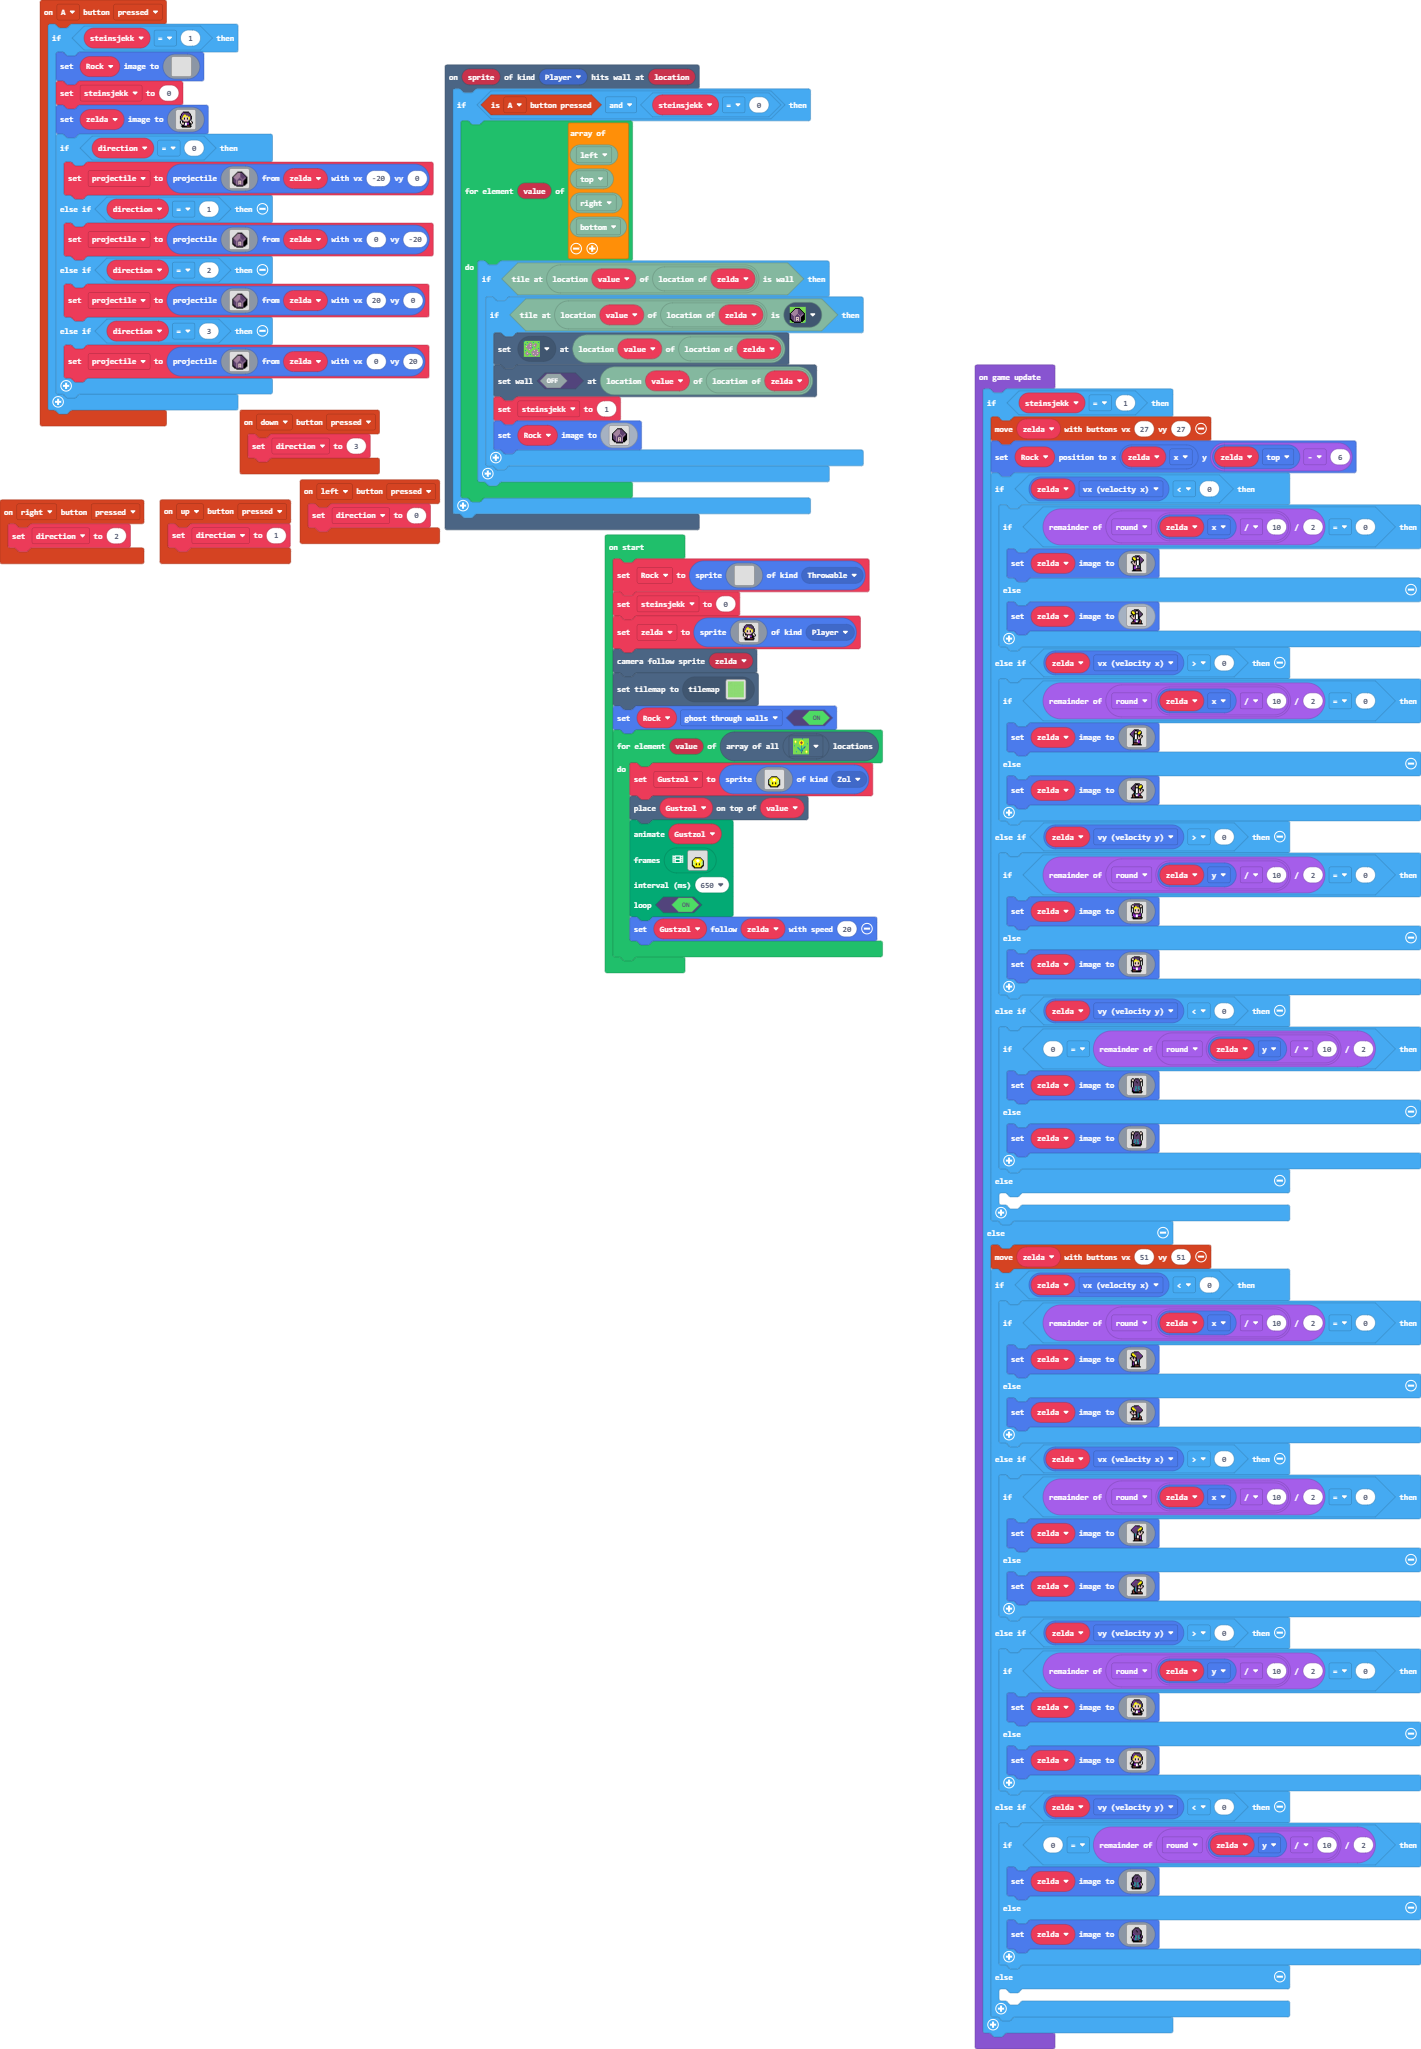
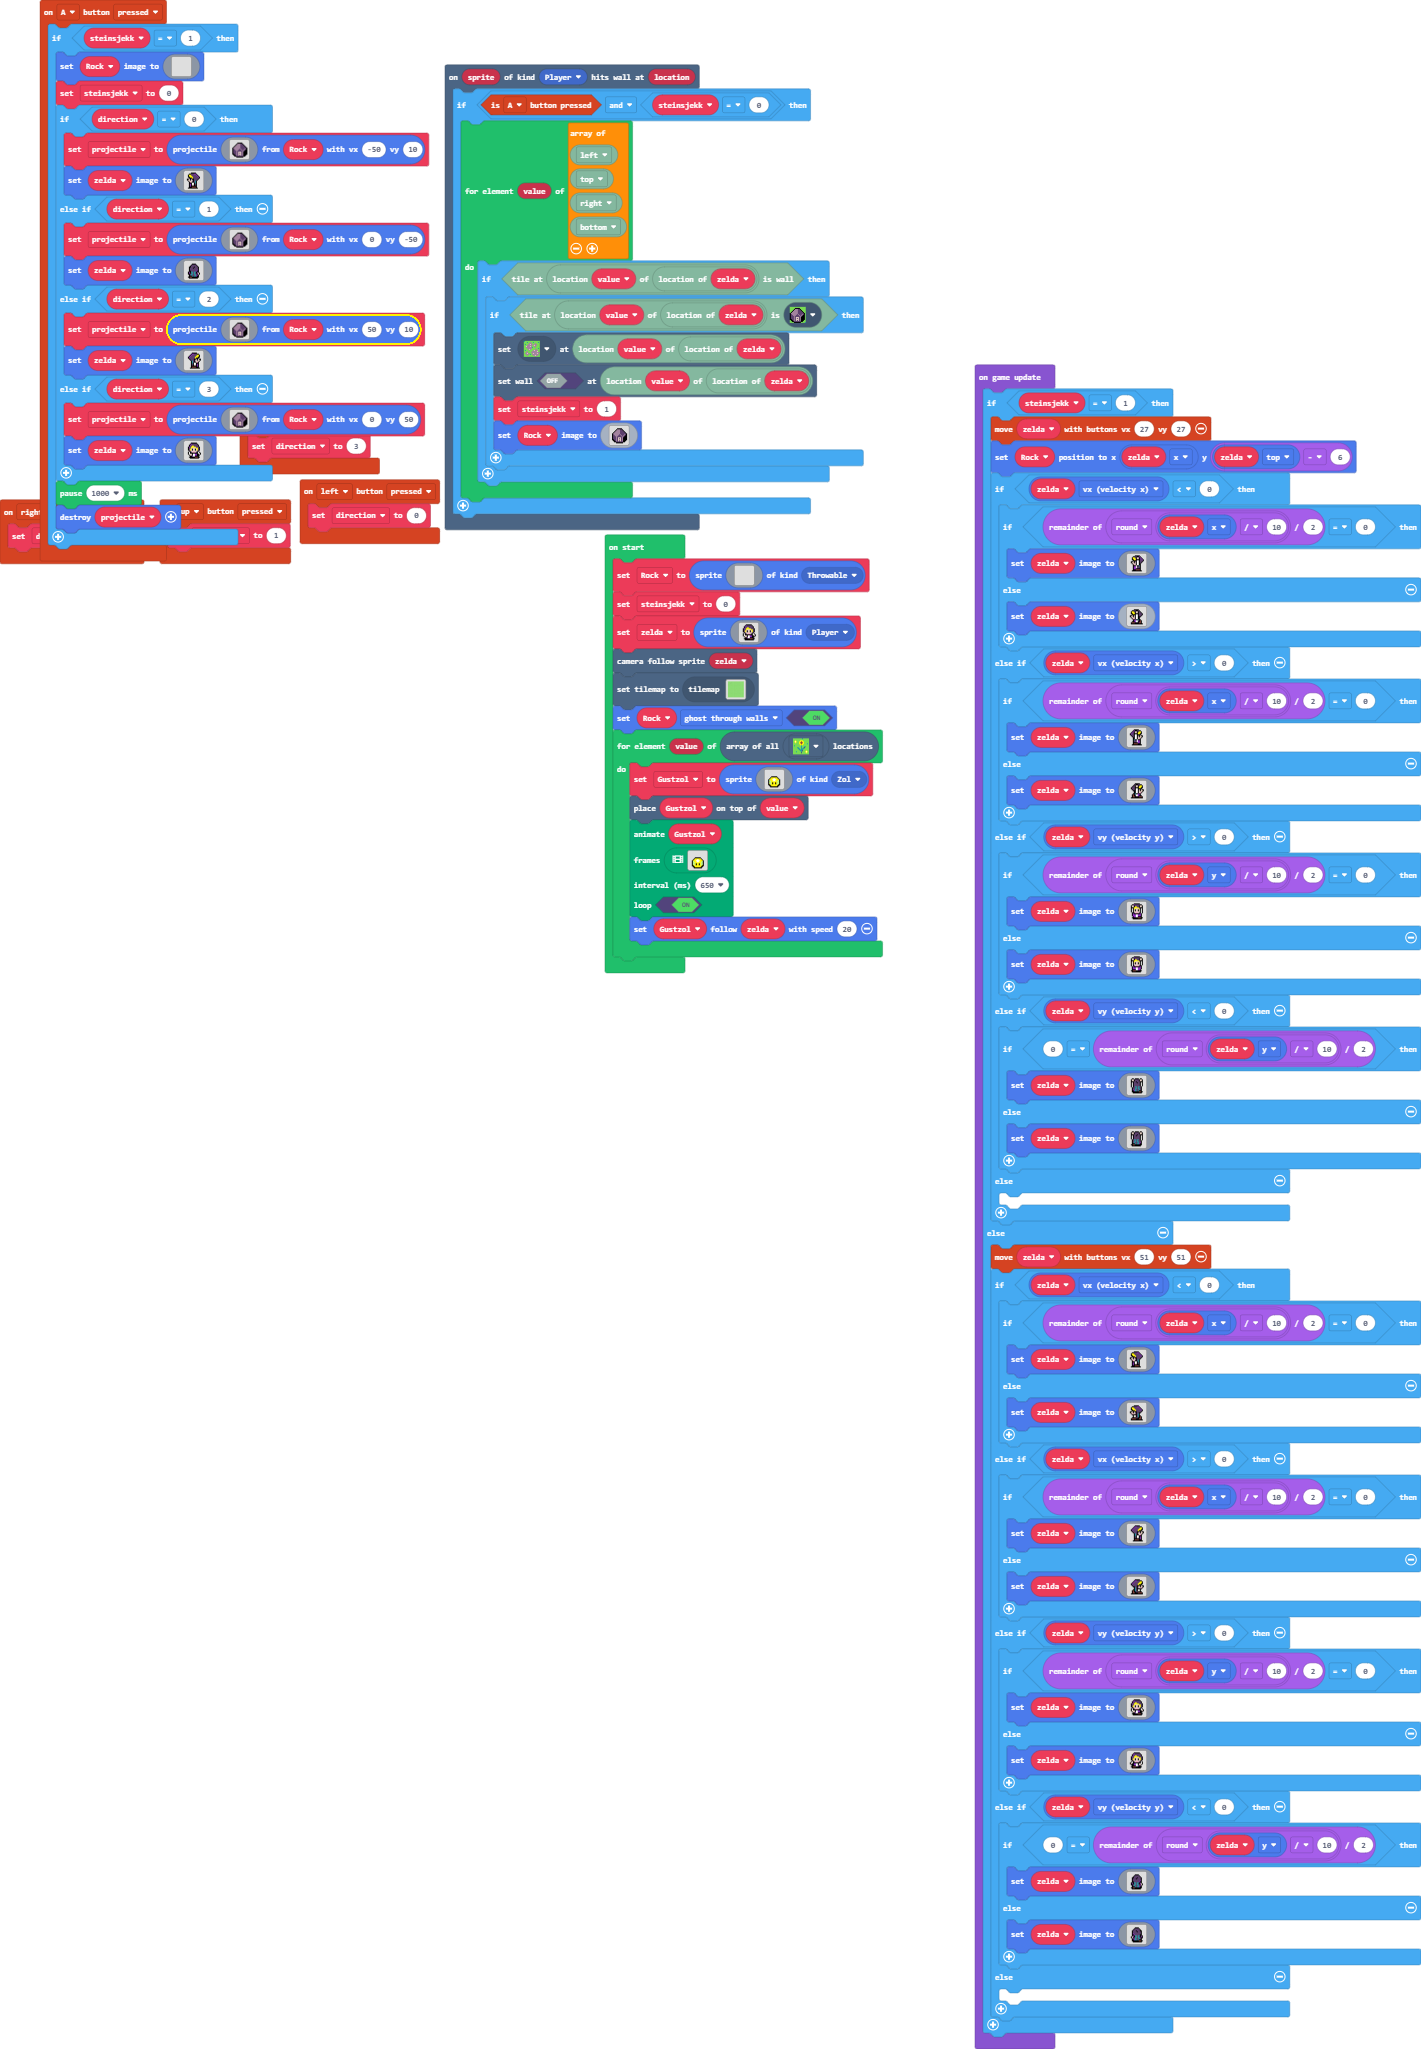
Update main.blocks, main.ts, tilemap.g.jres, tilemap.g.ts

Changed region(s): [[0.031, 0.0312, 0.3096, 0.2811]]

diff --git a/tilemap.g.ts b/tilemap.g.ts
@@ -66,6 +66,44 @@ namespace myTiles {
 ..................................................
 ..................................................
 `, [myTiles.transparency16,myTiles.tile1,myTiles.tile3], TileScale.Sixteen);
+            case "level1":
+            case "level1":return tiles.createTilemap(hex`1000100000000000000000000000000000000000000000000000000000000000000000000000000000000000000000000000000000000000000000000000000000000000000000000000000000000000000000000000000000000000000000000000000000000000000000000000000000000000000000000000000000000000000000000000000000000000000000000000000000000000000000000000000000000000000000000000000000000000000000000000000000000000000000000000000000000000000000000000000000000000000000000000000000000000000000000000000000000000000000000000000000000000000000000000000000000000`, img`
+. . . . . . . . . . . . . . . . 
+. . . . . . . . . . . . . . . . 
+. . . . . . . . . . . . . . . . 
+. . . . . . . . . . . . . . . . 
+. . . . . . . . . . . . . . . . 
+. . . . . . . . . . . . . . . . 
+. . . . . . . . . . . . . . . . 
+. . . . . . . . . . . . . . . . 
+. . . . . . . . . . . . . . . . 
+. . . . . . . . . . . . . . . . 
+. . . . . . . . . . . . . . . . 
+. . . . . . . . . . . . . . . . 
+. . . . . . . . . . . . . . . . 
+. . . . . . . . . . . . . . . . 
+. . . . . . . . . . . . . . . . 
+. . . . . . . . . . . . . . . . 
+`, [myTiles.transparency16], TileScale.Sixteen);
+            case "level3":
+            case "level3":return tiles.createTilemap(hex`1000100000000000000000000000000000000000000000000000000000000000000000000000000000000000000000000000000000000000000000000000000000000000000000000000000000000000000000000000000000000000000000000000000000000000000000000000000000000000000000000000000000000000000000000000000000000000000000000000000000000000000000000000000000000000000000000000000000000000000000000000000000000000000000000000000000000000000000000000000000000000000000000000000000000000000000000000000000000000000000000000000000000000000000000000000000000000`, img`
+. . . . . . . . . . . . . . . . 
+. . . . . . . . . . . . . . . . 
+. . . . . . . . . . . . . . . . 
+. . . . . . . . . . . . . . . . 
+. . . . . . . . . . . . . . . . 
+. . . . . . . . . . . . . . . . 
+. . . . . . . . . . . . . . . . 
+. . . . . . . . . . . . . . . . 
+. . . . . . . . . . . . . . . . 
+. . . . . . . . . . . . . . . . 
+. . . . . . . . . . . . . . . . 
+. . . . . . . . . . . . . . . . 
+. . . . . . . . . . . . . . . . 
+. . . . . . . . . . . . . . . . 
+. . . . . . . . . . . . . . . . 
+. . . . . . . . . . . . . . . . 
+`, [myTiles.transparency16], TileScale.Sixteen);
         }
         return null;
     })

diff --git a/main.ts b/main.ts
@@ -45,16 +45,21 @@ controller.A.onEvent(ControllerButtonEvent.Pressed, function () {
             . . . . . . . . . . . . . . . . 
             `)
         steinsjekk = 0
-        zelda.setImage(assets.image`Zelda_front`)
         if (direction == 0) {
-            projectile = sprites.createProjectileFromSprite(assets.image`carry_rock`, zelda, -20, 0)
+            projectile = sprites.createProjectileFromSprite(assets.image`carry_rock`, Rock, -50, 10)
+            zelda.setImage(assets.image`Zelda_left`)
         } else if (direction == 1) {
-            projectile = sprites.createProjectileFromSprite(assets.image`carry_rock`, zelda, 0, -20)
+            projectile = sprites.createProjectileFromSprite(assets.image`carry_rock`, Rock, 0, -50)
+            zelda.setImage(assets.image`Zelda_back`)
         } else if (direction == 2) {
-            projectile = sprites.createProjectileFromSprite(assets.image`carry_rock`, zelda, 20, 0)
+            projectile = sprites.createProjectileFromSprite(assets.image`carry_rock`, Rock, 50, 10)
+            zelda.setImage(assets.image`zelda_right`)
         } else if (direction == 3) {
-            projectile = sprites.createProjectileFromSprite(assets.image`carry_rock`, zelda, 0, 20)
+            projectile = sprites.createProjectileFromSprite(assets.image`carry_rock`, Rock, 0, 50)
+            zelda.setImage(assets.image`Zelda_front`)
         }
+        pause(1000)
+        sprites.destroy(projectile)
     }
 })
 controller.left.onEvent(ControllerButtonEvent.Pressed, function () {
